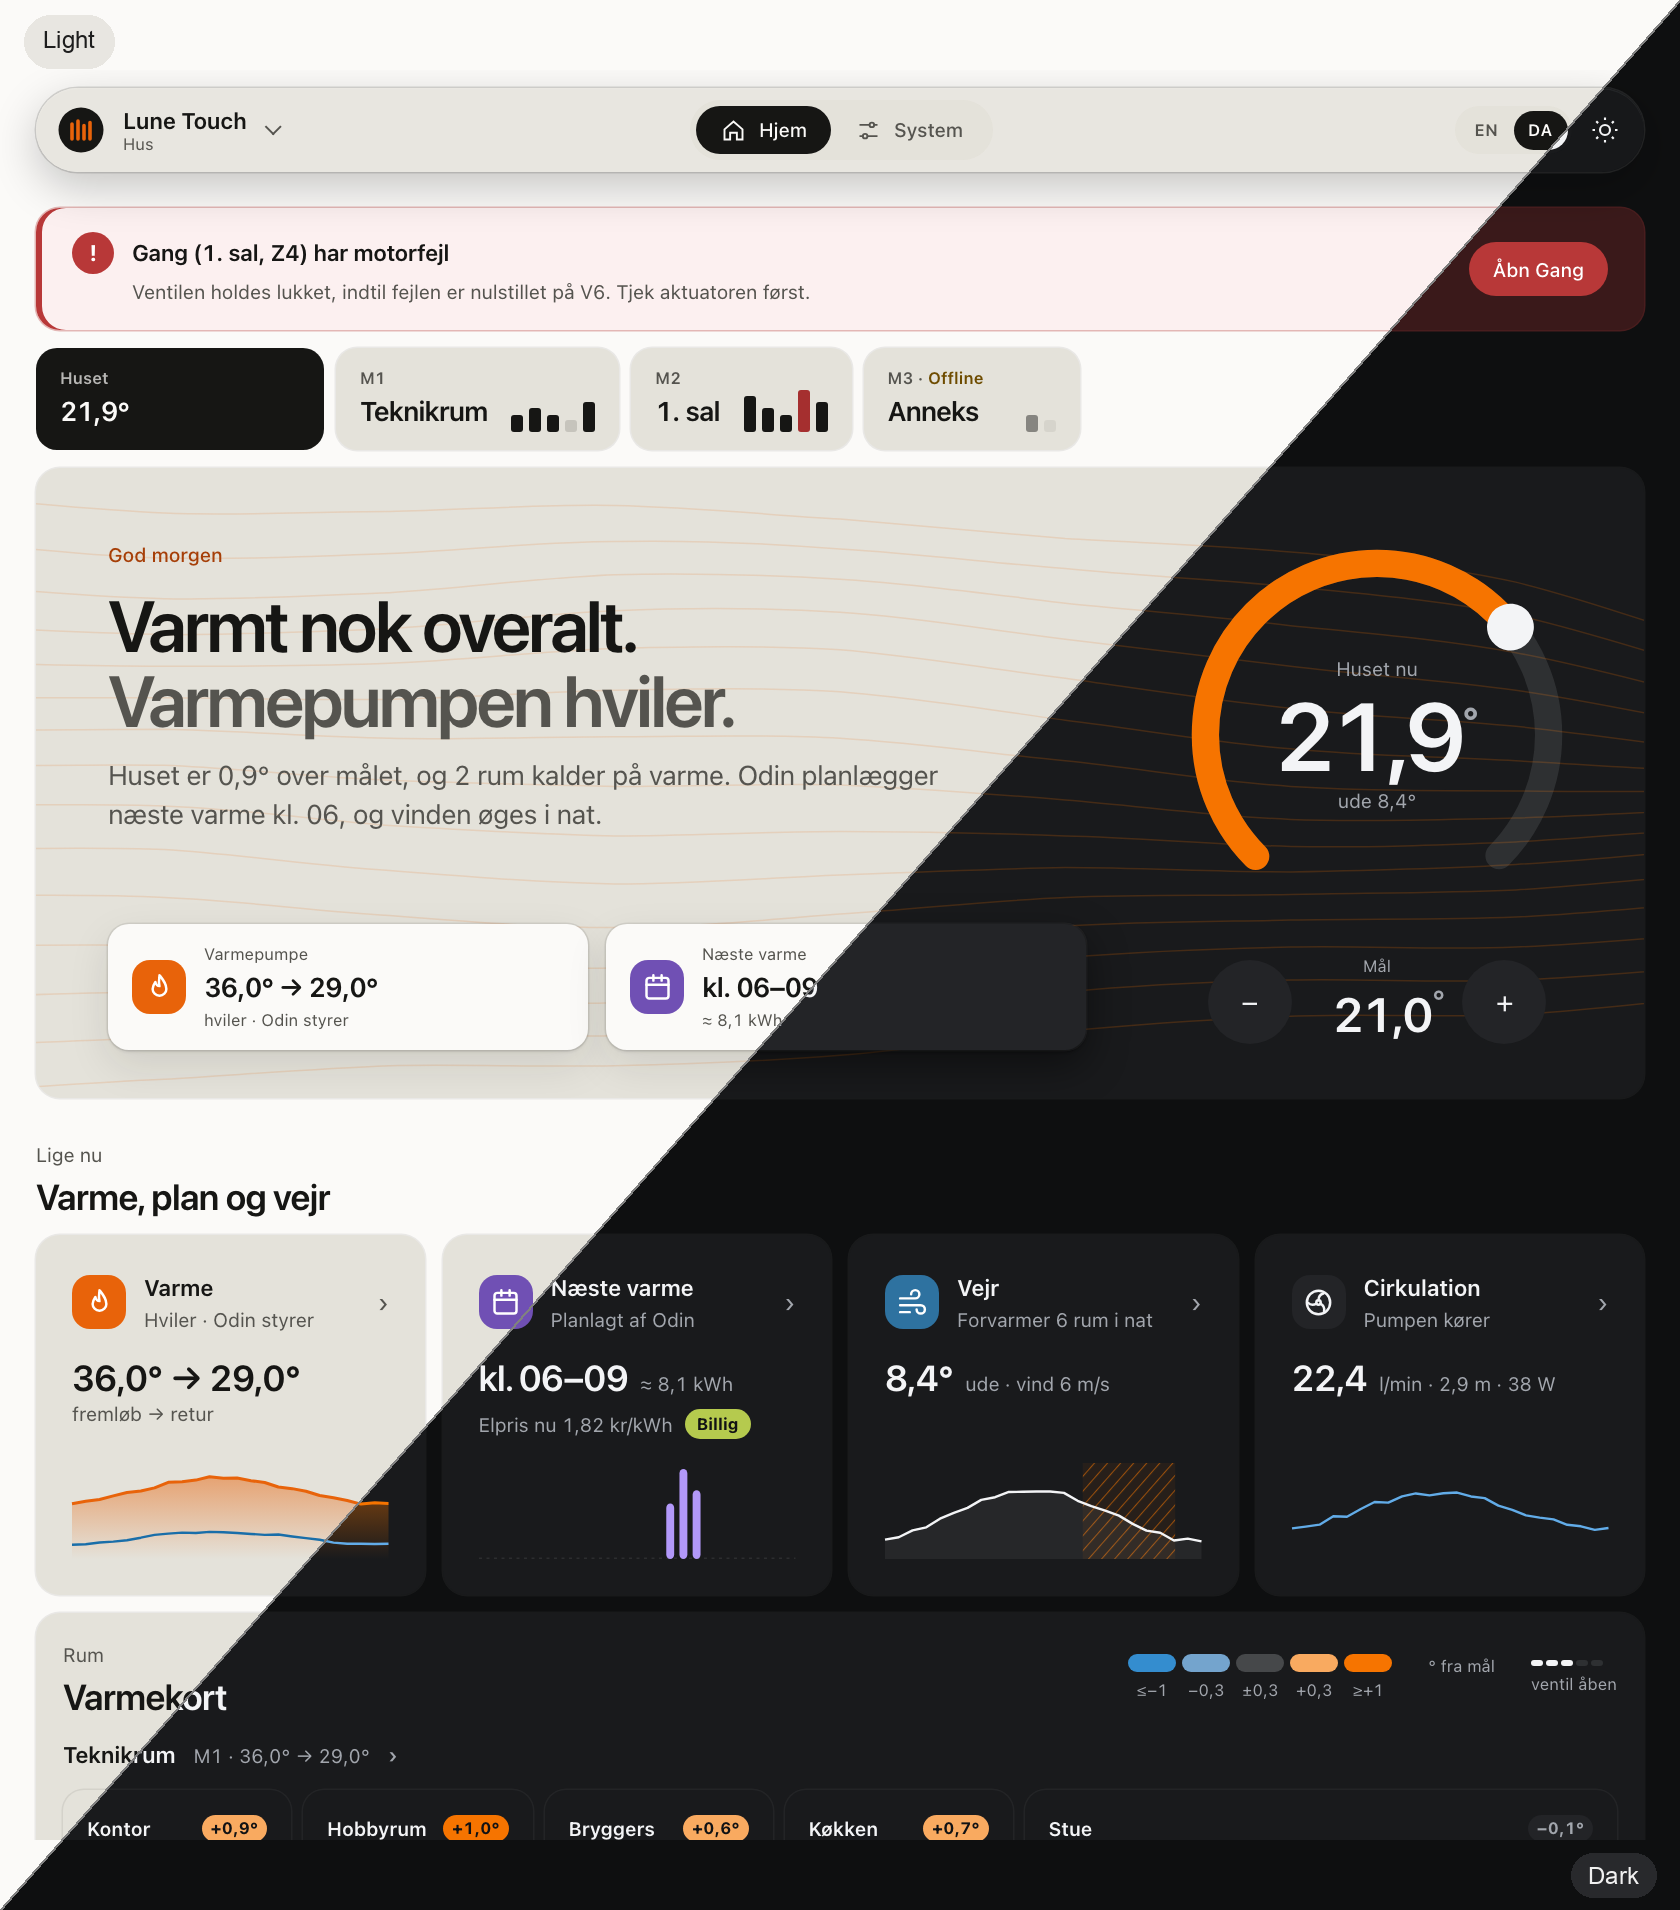
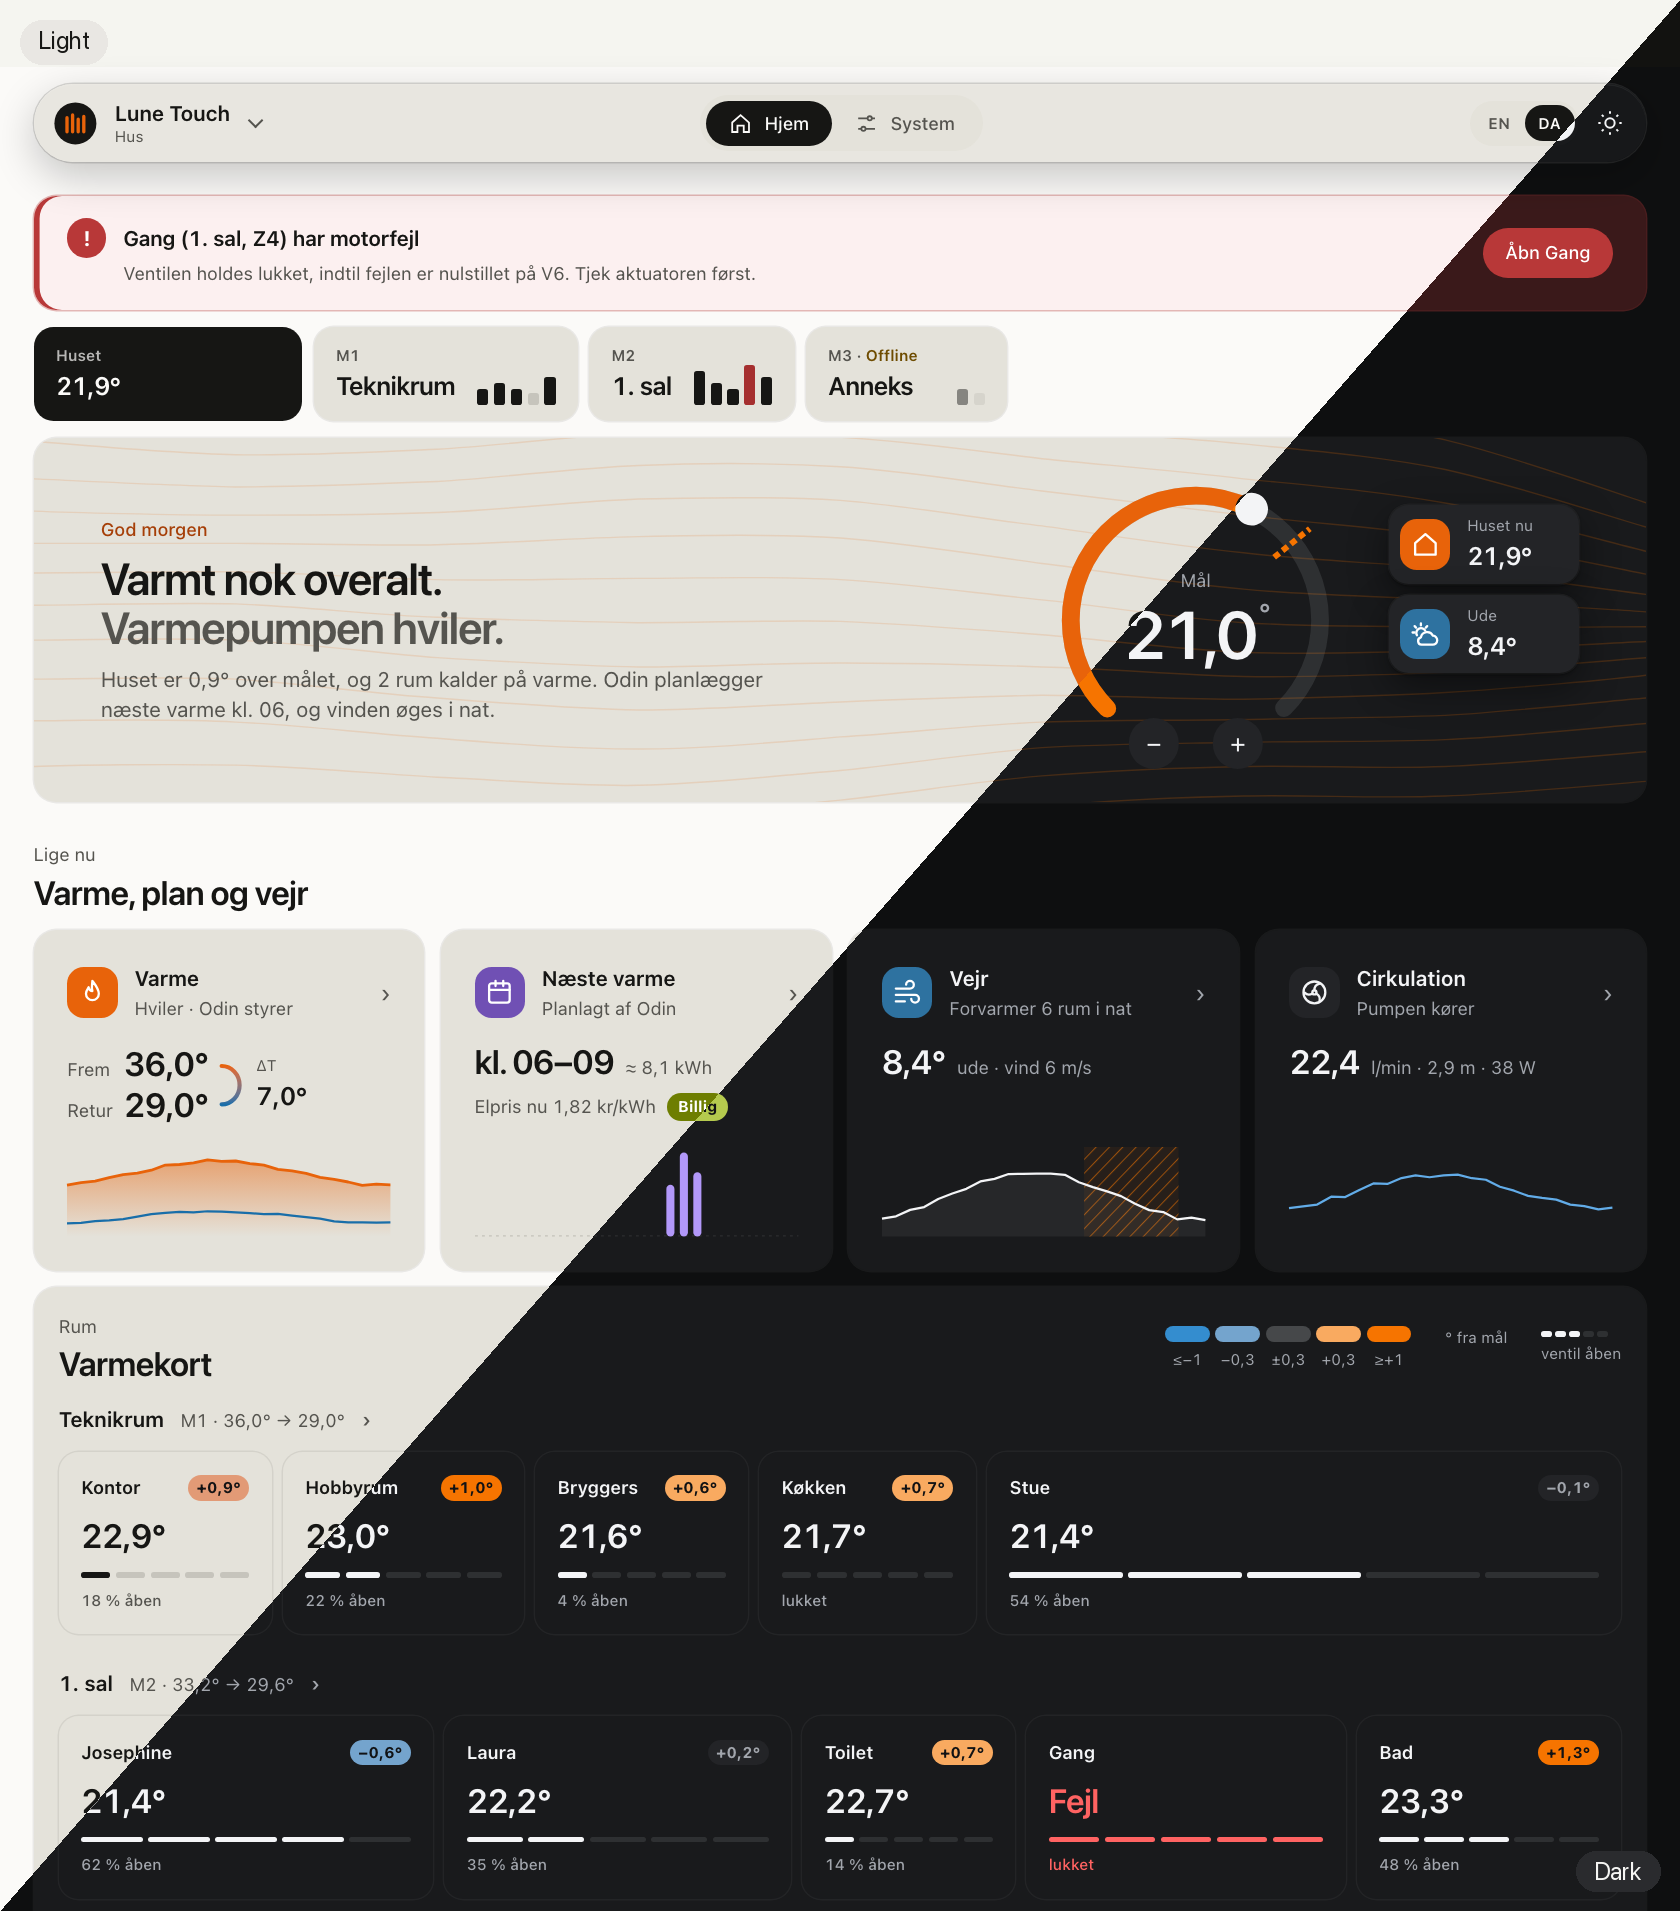
README screenshot from the current Touch home; tools/lds_shots.py makes the light/dark split

diff --git a/tools/lds_shots.py b/tools/lds_shots.py
@@ -1,0 +1,108 @@
+#!/usr/bin/env python3
+"""README-skærmbillede: én side i lyst og mørkt tema, delt diagonalt.
+
+    python tools/lds_shots.py PREVIEW.html OUT.png [--width 1200] [--height 1430] [--scale 1.4]
+
+Tager to skærmbilleder med headless Chrome (prefers-color-scheme light/dark),
+lægger det mørke under en diagonal fra øverste højre til nederste venstre
+hjørne og sætter mærkerne «Light» / «Dark» i hjørnerne. Siden får luft i
+toppen til mærket (en midlertidig kopi ved siden af originalen), og animation
+er slået fra, så intet fanges midt i en overgang. Kræver Google Chrome og Pillow.
+"""
+import argparse
+import os
+import shutil
+import subprocess
+import tempfile
+
+from PIL import Image, ImageDraw, ImageFont
+
+CHROME_PATHS = [
+    "/Applications/Google Chrome.app/Contents/MacOS/Google Chrome",
+    shutil.which("google-chrome") or "",
+    shutil.which("chromium") or "",
+]
+FONT_PATHS = ["/System/Library/Fonts/SFNS.ttf", "/System/Library/Fonts/HelveticaNeue.ttc",
+              "/usr/share/fonts/truetype/dejavu/DejaVuSans.ttf"]
+# Mærkerne følger LDS' flader (lyst: raised på bg, mørkt: raised på bg).
+LIGHT_PILL = ((233, 231, 227), (24, 24, 22))
+DARK_PILL = ((42, 43, 46), (245, 245, 243))
+
+
+def chrome():
+    for p in CHROME_PATHS:
+        if p and os.path.exists(p):
+            return p
+    raise SystemExit("Google Chrome blev ikke fundet")
+
+
+TOP_PAD_PX = 48
+
+
+def padded_copy(page):
+    """Kopi ved siden af originalen (relative stier virker) med luft i toppen."""
+    src = open(page, encoding="utf-8").read()
+    style = (f"<style>html{{padding-top:{TOP_PAD_PX}px!important}}"
+             "*,*::before,*::after{transition:none!important;animation:none!important}</style>")
+    src = src.replace("</head>", style + "</head>", 1) if "</head>" in src else style + src
+    tmp = os.path.join(os.path.dirname(os.path.abspath(page)), ".lds-shot.html")
+    with open(tmp, "w", encoding="utf-8") as f:
+        f.write(src)
+    return tmp
+
+
+def shot(page, out, width, height, scale, scheme):
+    # preferredColorScheme: 0 = mørkt, 1 = lyst
+    subprocess.run([chrome(), "--headless=new", "--disable-gpu", "--hide-scrollbars", "--force-prefers-reduced-motion",
+                    f"--force-device-scale-factor={scale}", f"--window-size={width},{height}",
+                    "--virtual-time-budget=5000", f"--blink-settings=preferredColorScheme={0 if scheme == 'dark' else 1}",
+                    f"--screenshot={out}", "file://" + os.path.abspath(page)],
+                   check=True, stdout=subprocess.DEVNULL, stderr=subprocess.DEVNULL)
+
+
+def pill(img, text, corner, colors, scale):
+    draw = ImageDraw.Draw(img)
+    font = None
+    for p in FONT_PATHS:
+        if os.path.exists(p):
+            font = ImageFont.truetype(p, round(17 * scale))
+            break
+    font = font or ImageFont.load_default()
+    pad_x, pad_y, margin = round(13 * scale), round(8 * scale), round(14 * scale)
+    box = draw.textbbox((0, 0), text, font=font)
+    w, h = box[2] - box[0] + 2 * pad_x, box[3] - box[1] + 2 * pad_y
+    x = margin if corner == "tl" else img.width - margin - w
+    y = margin if corner == "tl" else img.height - margin - h
+    draw.rounded_rectangle((x, y, x + w, y + h), radius=h // 2, fill=colors[0])
+    draw.text((x + pad_x - box[0], y + pad_y - box[1]), text, font=font, fill=colors[1])
+
+
+def main():
+    ap = argparse.ArgumentParser()
+    ap.add_argument("page")
+    ap.add_argument("out")
+    ap.add_argument("--width", type=int, default=1200)
+    ap.add_argument("--height", type=int, default=1430)
+    ap.add_argument("--scale", type=float, default=1.4)
+    a = ap.parse_args()
+    page = padded_copy(a.page)
+    with tempfile.TemporaryDirectory() as tmp:
+        light, dark = os.path.join(tmp, "light.png"), os.path.join(tmp, "dark.png")
+        try:
+            shot(page, light, a.width, a.height, a.scale, "light")
+            shot(page, dark, a.width, a.height, a.scale, "dark")
+        finally:
+            os.remove(page)
+        li, di = Image.open(light).convert("RGB"), Image.open(dark).convert("RGB")
+        W, H = li.size
+        mask = Image.new("L", (W, H), 0)
+        ImageDraw.Draw(mask).polygon([(W, 0), (W, H), (0, H)], fill=255)
+        out = Image.composite(di, li, mask)
+        pill(out, "Light", "tl", LIGHT_PILL, a.scale)
+        pill(out, "Dark", "br", DARK_PILL, a.scale)
+        out.save(a.out, optimize=True)
+    print(f"{a.out}: {W}×{H}")
+
+
+if __name__ == "__main__":
+    main()

diff --git a/README.md b/README.md
@@ -20,6 +20,7 @@ Designændringer lander **her først**, derefter genbyg i produkterne. Ret aldri
 | `tools/lds_build.py` | Bygger `dist/<projekt>/lune-ui.css` og tjekker kontrast |
 | `tools/build_docs.py` | Bygger `docs/design-system.html` |
 | `tools/lds_ha.py` | Bygger Home Assistant-temaet (`dist/home-assistant/`) |
+| `tools/lds_shots.py` | README-skærmbillede: en preview i lyst og mørkt, delt diagonalt (`python tools/lds_shots.py PREVIEW.html OUT.png --height 1430`) |
 | `tools/lds_display.py` | Bygger vægskærmens LVGL-tema (`dist/display/lune_theme.h` og ESPHome-pakke); `--install` skriver firmwarefilerne i produktrepoet |
 | `tools/lds_brand.py`, `tokens/brand.json` | Brand-mærker (seksrørs-halo) som PNG/SVG |
 | `tools/md_toc.py` | Indholdsfortegnelser i Markdown (`<!-- toc -->`), fx i `DESIGN.md` og manualerne |
